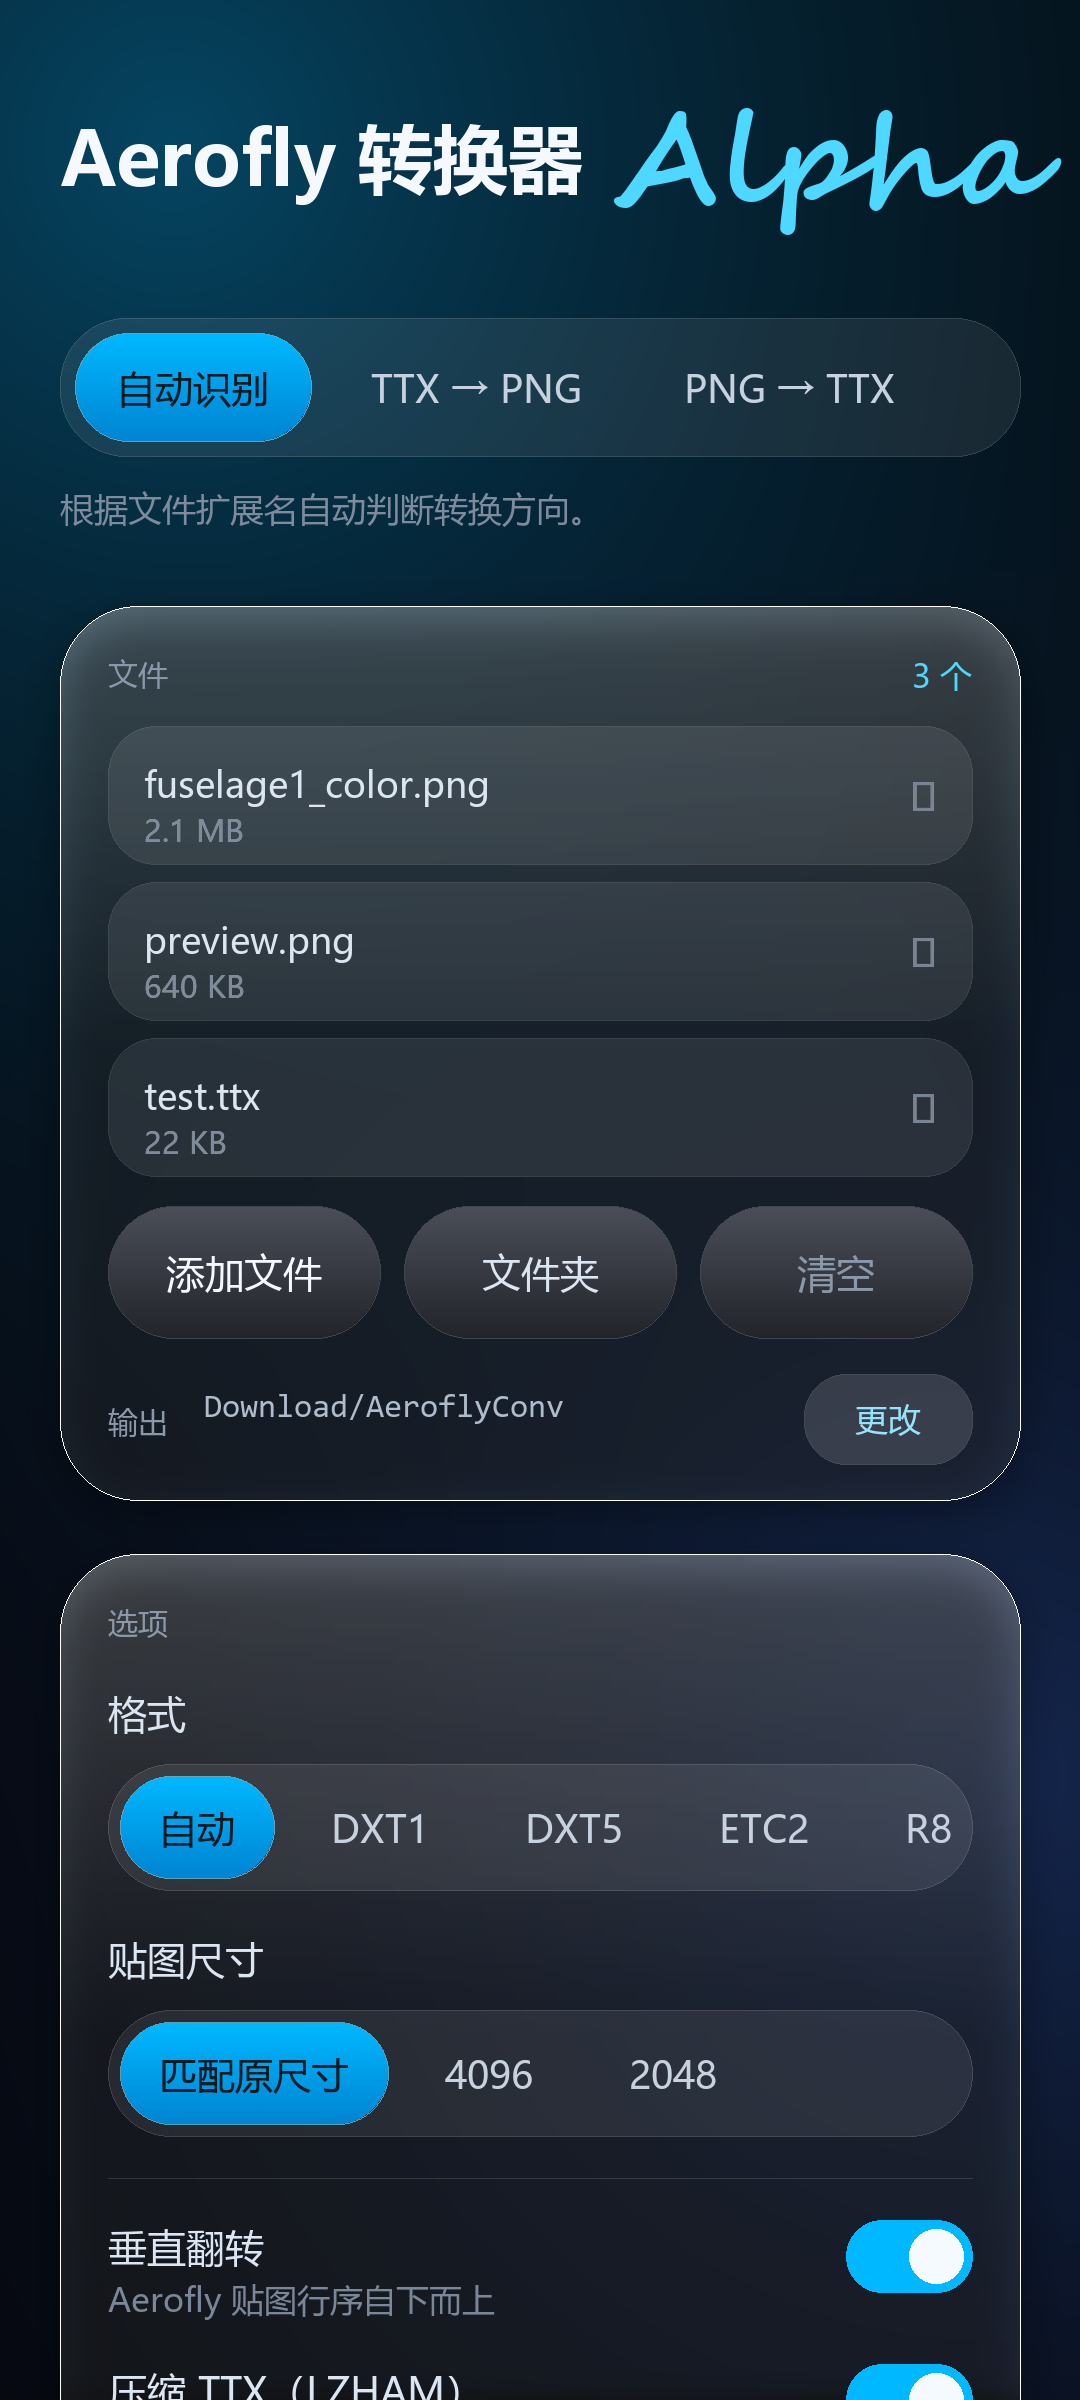
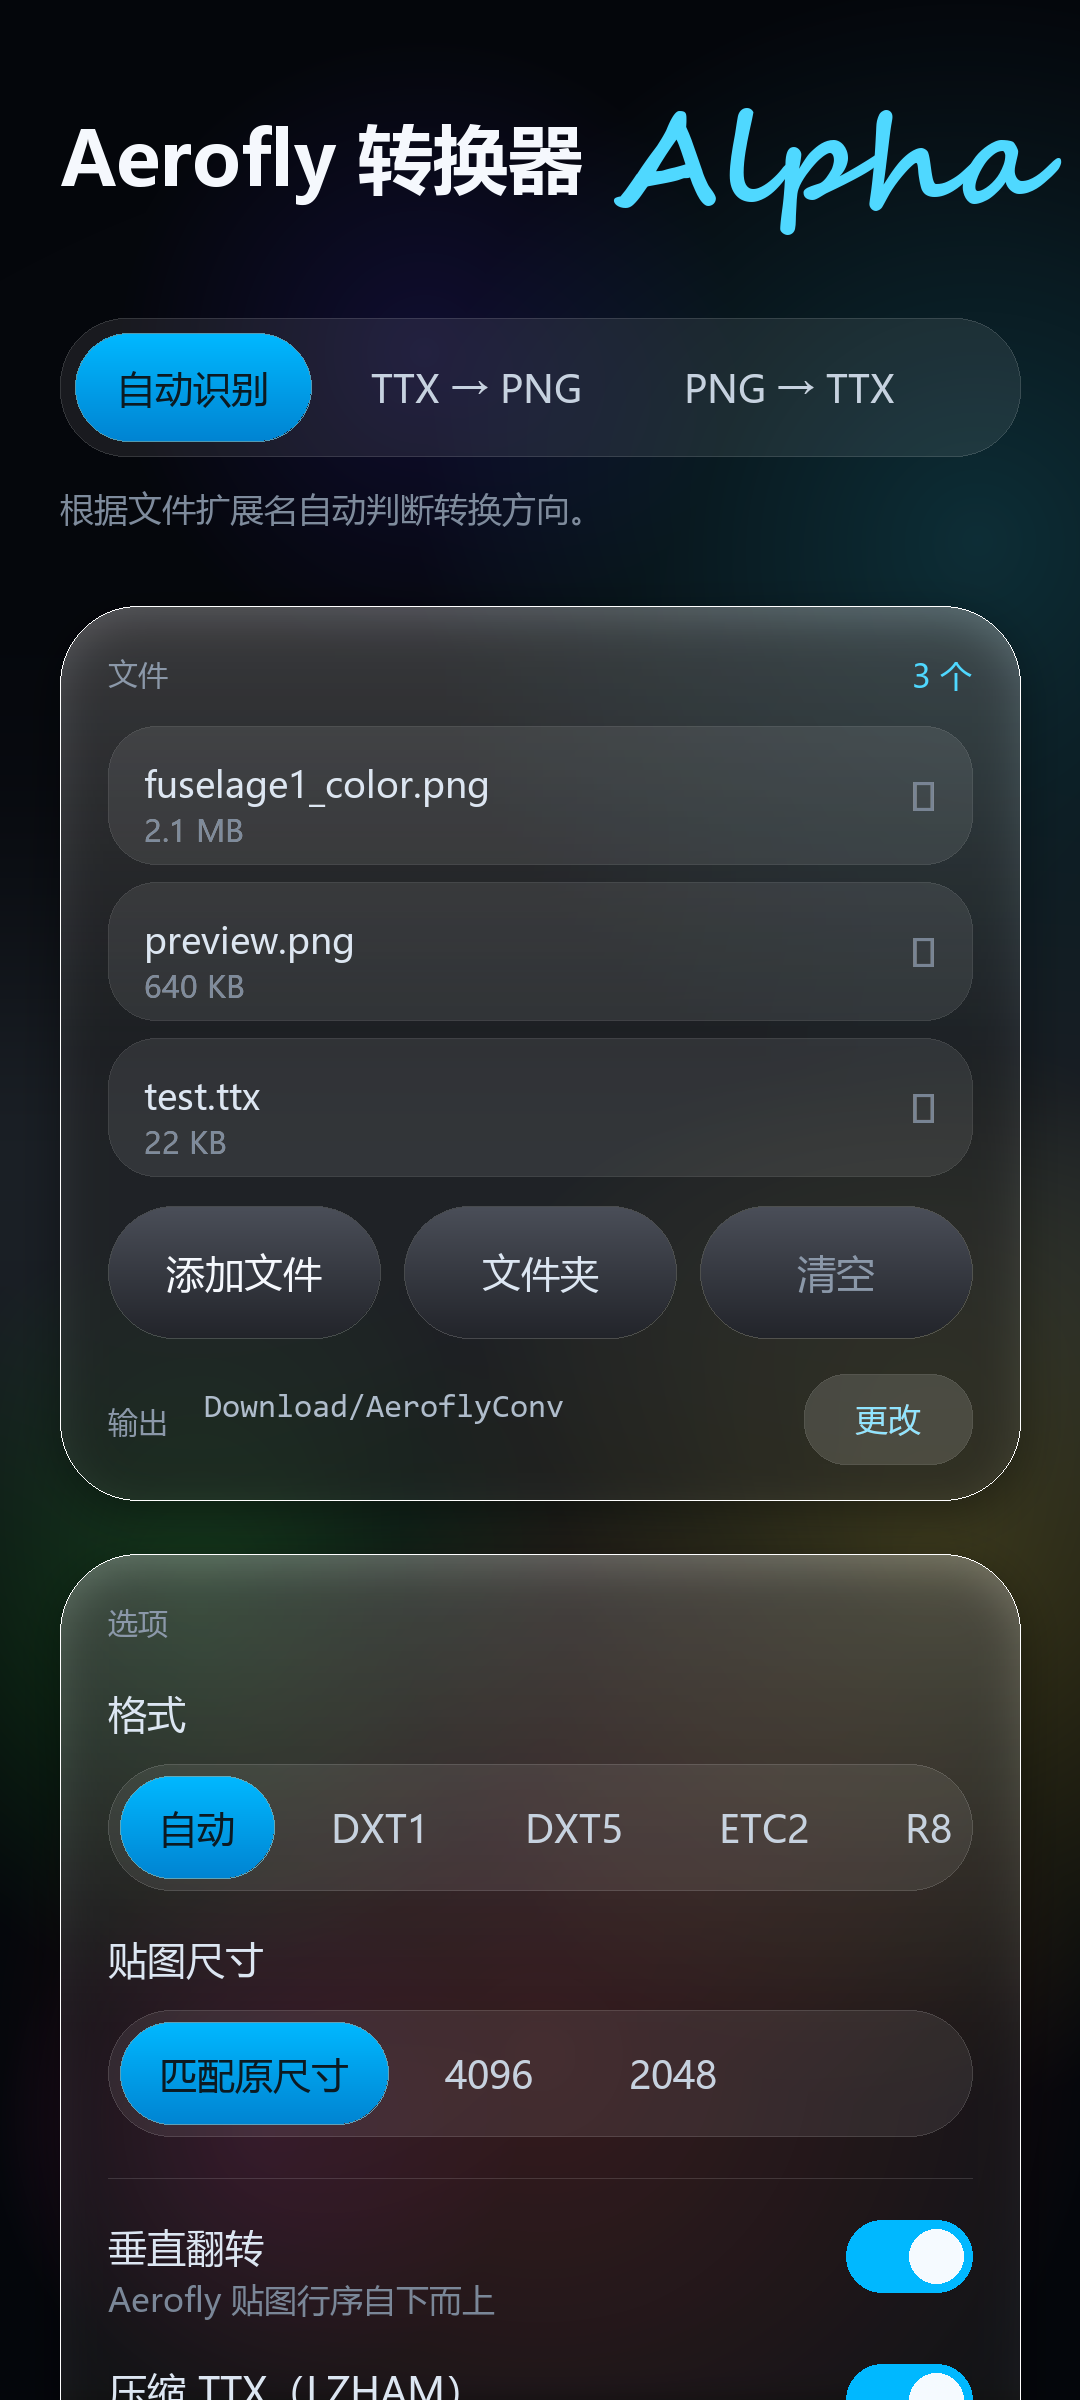
1.21.4: animated aurora background (drifting colour blobs, sweeping beam, glints, vignette)

diff --git a/src/AeroflyConv.Android/AuroraView.cs b/src/AeroflyConv.Android/AuroraView.cs
@@ -1,0 +1,230 @@
+using Android.Content;
+using Android.Graphics;
+using Android.Provider;
+using Android.Views;
+
+namespace AeroflyConv.Android;
+
+/// <summary>
+/// Animated background: soft colour blobs drifting on slow Lissajous paths (added together so
+/// they read as light), a wide light beam sweeping across the screen, a couple of drifting
+/// glints and a vignette that keeps the foreground readable.
+/// Everything is drawn with Canvas primitives — no bitmaps to ship, no third-party libraries.
+/// </summary>
+public sealed class AuroraView : View
+{
+    private sealed class Blob
+    {
+        public float SpeedX;
+        public float SpeedY;
+        public float PhaseX;
+        public float PhaseY;
+        public float Radius;      // fraction of the shorter edge
+        public float HueOffset;
+        public float Alpha;
+    }
+
+    private static readonly Color BaseColor = Color.Argb(255, 5, 7, 12);
+
+    // Hue travel: one full turn of the wheel every 48 s, so the palette keeps moving
+    // through cyan -> violet -> magenta -> amber -> emerald instead of sitting still.
+    private const float HueCycleSeconds = 48f;
+
+    private readonly Blob[] _blobs =
+    [
+        new() { SpeedX = 0.13f, SpeedY = 0.09f, PhaseX = 0.0f,  PhaseY = 1.1f,  Radius = 0.58f, HueOffset = 0f,   Alpha = 0.32f },
+        new() { SpeedX = 0.09f, SpeedY = 0.15f, PhaseX = 2.1f,  PhaseY = 0.4f,  Radius = 0.50f, HueOffset = 52f,  Alpha = 0.27f },
+        new() { SpeedX = 0.17f, SpeedY = 0.11f, PhaseX = 4.0f,  PhaseY = 2.7f,  Radius = 0.44f, HueOffset = 118f, Alpha = 0.25f },
+        new() { SpeedX = 0.07f, SpeedY = 0.19f, PhaseX = 1.3f,  PhaseY = 3.9f,  Radius = 0.52f, HueOffset = 186f, Alpha = 0.23f },
+        new() { SpeedX = 0.21f, SpeedY = 0.13f, PhaseX = 3.4f,  PhaseY = 5.2f,  Radius = 0.34f, HueOffset = 248f, Alpha = 0.20f },
+        new() { SpeedX = 0.11f, SpeedY = 0.23f, PhaseX = 5.6f,  PhaseY = 1.8f,  Radius = 0.30f, HueOffset = 310f, Alpha = 0.18f },
+    ];
+
+    private readonly Paint _blobPaint = new(PaintFlags.FilterBitmap) { AntiAlias = true };
+    private readonly Paint _beamPaint = new(PaintFlags.FilterBitmap) { AntiAlias = true };
+    private readonly Paint _vignettePaint = new(PaintFlags.FilterBitmap) { AntiAlias = true };
+    private readonly Paint _glintPaint = new(PaintFlags.FilterBitmap) { AntiAlias = true };
+    private Shader?[] _shaders = [];
+    private int[] _shaderColours = [];
+    private readonly float[] _hsv = new float[3];
+
+    private Shader? _beamShader;
+    private Shader? _vignetteShader;
+    private readonly RectF _rect = new();
+    private long _startNanos;
+    private float _elapsed;
+    private bool _visible = true;
+
+    public AuroraView(Context context) : base(context) => Init();
+
+    public AuroraView(Context context, global::Android.Util.IAttributeSet? attrs) : base(context, attrs) => Init();
+
+    public AuroraView(IntPtr handle, global::Android.Runtime.JniHandleOwnership ownership)
+        : base(handle, ownership) => Init();
+
+    private void Init()
+    {
+        _shaders = new Shader?[_blobs.Length];
+        _shaderColours = new int[_blobs.Length];
+        Array.Fill(_shaderColours, -1);
+        SetLayerType(LayerType.Hardware, null);
+        _blobPaint.SetXfermode(new PorterDuffXfermode(PorterDuff.Mode.Add));
+        _glintPaint.SetXfermode(new PorterDuffXfermode(PorterDuff.Mode.Add));
+        _startNanos = Java.Lang.JavaSystem.NanoTime();
+        _elapsed = 0f;
+    }
+
+    /// <summary>Reduced motion (accessibility / battery saver): freeze the animation.</summary>
+    public bool ReducedMotion
+    {
+        get
+        {
+            try
+            {
+                float scale = global::Android.Provider.Settings.Global.GetFloat(
+                    Context!.ContentResolver, global::Android.Provider.Settings.Global.AnimatorDurationScale, 1f);
+                return scale <= 0f;
+            }
+            catch
+            {
+                return true;
+            }
+        }
+    }
+
+    public void Pause() => _visible = false;
+
+    public void Resume()
+    {
+        if (_visible)
+        {
+            return;
+        }
+
+        _visible = true;
+        _startNanos = Java.Lang.JavaSystem.NanoTime() - (long)(_elapsed * 1e9);
+        Invalidate();
+    }
+
+    protected override void OnWindowVisibilityChanged(ViewStates visibility)
+    {
+        base.OnWindowVisibilityChanged(visibility);
+        _visible = visibility == ViewStates.Visible;
+        if (_visible)
+        {
+            Invalidate();
+        }
+    }
+
+    protected override void OnDraw(Canvas canvas)
+    {
+        int w = Width;
+        int h = Height;
+        if (w <= 0 || h <= 0)
+        {
+            return;
+        }
+
+        canvas.DrawColor(BaseColor);
+
+        float shorter = Math.Min(w, h);
+        float cx = w * 0.5f;
+        float cy = h * 0.5f;
+
+        // additive blobs
+        canvas.Save();
+        for (int i = 0; i < _blobs.Length; i++)
+        {
+            Blob b = _blobs[i];
+            float x = cx + w * 0.42f * MathF.Sin(_elapsed * b.SpeedX * MathF.Tau + b.PhaseX);
+            float y = cy + h * 0.40f * MathF.Sin(_elapsed * b.SpeedY * MathF.Tau + b.PhaseY);
+            float radius = shorter * b.Radius * (0.88f + 0.12f * MathF.Sin(_elapsed * 0.18f * MathF.Tau + b.PhaseX));
+            int colour = BlobColour(i, b);
+
+            if (_shaders[i] is null || _shaderColours[i] != colour)
+            {
+                float r = Math.Max(1f, shorter * b.Radius);
+                _shaders[i] = new RadialGradient(0, 0, r, colour, colour & 0x00FFFFFF, Shader.TileMode.Clamp!);
+                _shaderColours[i] = colour;
+                _blobPaint.SetShader(_shaders[i]);
+            }
+            else
+            {
+                _blobPaint.SetShader(_shaders[i]);
+            }
+
+            canvas.Save();
+            canvas.Translate(x, y);
+            canvas.Scale(radius / Math.Max(1f, shorter * b.Radius), radius / Math.Max(1f, shorter * b.Radius));
+            canvas.DrawCircle(0, 0, Math.Max(1f, shorter * b.Radius), _blobPaint);
+            canvas.Restore();
+        }
+        canvas.Restore();
+
+        // sweeping light beam
+        float angle = _elapsed * 6.0f; // degrees per second -> a lazy 60 s turn
+        float beamWidth = shorter * 0.55f;
+        if (_beamShader is null)
+        {
+            _beamShader = new LinearGradient(
+                -beamWidth, 0, beamWidth, 0,
+                [Color.Argb(0, 255, 255, 255), Color.Argb(26, 214, 245, 255), Color.Argb(0, 255, 255, 255)],
+                [0f, 0.5f, 1f],
+                Shader.TileMode.Clamp!);
+            _beamPaint.SetShader(_beamShader);
+        }
+
+        canvas.Save();
+        canvas.Translate(cx, cy);
+        canvas.Rotate(angle);
+        float span = MathF.Sqrt(w * w + h * h);
+        canvas.DrawRect(-span * 0.5f, -span * 0.5f, span * 0.5f, span * 0.5f, _beamPaint);
+        canvas.Restore();
+
+        // two small drifting glints
+        for (int i = 0; i < 2; i++)
+        {
+            float x = w * (0.5f + 0.38f * MathF.Sin(_elapsed * (0.07f + i * 0.02f) * MathF.Tau + i * 2.4f));
+            float y = h * (0.5f + 0.34f * MathF.Cos(_elapsed * (0.05f + i * 0.03f) * MathF.Tau + i * 1.7f));
+            _glintPaint.SetShader(new RadialGradient(x, y, shorter * 0.06f,
+                Color.Argb(70, 255, 255, 255), Color.Argb(0, 255, 255, 255), Shader.TileMode.Clamp!));
+            canvas.DrawCircle(x, y, shorter * 0.06f, _glintPaint);
+        }
+
+        // vignette keeps the cards and text readable over the bright spots
+        if (_vignetteShader is null)
+        {
+            _vignetteShader = new RadialGradient(cx, cy * 1.02f, Math.Max(w, h) * 0.78f,
+                [Color.Argb(0, 3, 5, 9), Color.Argb(40, 3, 5, 9), Color.Argb(150, 3, 5, 9)],
+                [0f, 0.58f, 1f],
+                Shader.TileMode.Clamp!);
+            _vignettePaint.SetShader(_vignetteShader);
+        }
+
+        canvas.DrawRect(0, 0, w, h, _vignettePaint);
+
+        if (!_visible)
+        {
+            return;
+        }
+
+        if (ReducedMotion)
+        {
+            // one static frame is enough when the system asks for no animation
+            _visible = false;
+            return;
+        }
+
+        _elapsed = (Java.Lang.JavaSystem.NanoTime() - _startNanos) / 1e9f;
+        PostInvalidateOnAnimation();
+    }
+
+    private int BlobColour(int index, Blob blob)
+    {
+        float hue = (_elapsed * 360f / HueCycleSeconds + blob.HueOffset) % 360f;
+        _hsv[0] = hue;
+        _hsv[1] = 0.80f;
+        _hsv[2] = 0.72f;
+        return Color.HSVToColor((int)Math.Clamp(blob.Alpha * 255f, 0, 255), _hsv);
+    }
+}

diff --git a/tools/mockup_ui.py b/tools/mockup_ui.py
@@ -11,6 +11,8 @@ from __future__ import annotations
 import os
 import sys
 
+import colorsys
+
 import numpy as np
 from PIL import Image, ImageDraw, ImageFilter, ImageFont
 
@@ -59,21 +61,48 @@ def vertical_gradient(size, top, bottom):
     return grad.resize((max(1, w), max(1, h)))
 
 
-def wallpaper():
+# Mirrors AuroraView.cs: same blob speeds/phases so the preview shows the real motion.
+BLOBS = [
+    # speedX, speedY, phaseX, phaseY, radius, hue offset, alpha
+    (0.13, 0.09, 0.0, 1.1, 0.58, 0, 0.32),
+    (0.09, 0.15, 2.1, 0.4, 0.50, 52, 0.27),
+    (0.17, 0.11, 4.0, 2.7, 0.44, 118, 0.25),
+    (0.07, 0.19, 1.3, 3.9, 0.52, 186, 0.23),
+    (0.21, 0.13, 3.4, 5.2, 0.34, 248, 0.20),
+    (0.11, 0.23, 5.6, 1.8, 0.30, 310, 0.18),
+]
+
+
+def aurora(t: float) -> Image.Image:
+    """Additive colour blobs + vignette, matching AuroraView at time t (seconds)."""
     yy, xx = np.mgrid[0:H, 0:W].astype(np.float32)
     img = np.zeros((H, W, 3), dtype=np.float32)
     img[:] = (5, 7, 12)
+    shorter = float(min(W, H))
+    cx, cy = W * 0.5, H * 0.5
 
-    def glow(cx, cy, radius, colour, strength):
-        r = np.sqrt((xx - cx * W) ** 2 + (yy - cy * H) ** 2)
-        falloff = np.clip(1.0 - r / radius, 0.0, 1.0) ** 2.2
-        return np.array(colour, dtype=np.float32) * (falloff * strength)[..., None]
+    for speed_x, speed_y, phase_x, phase_y, radius_frac, hue_offset, alpha in BLOBS:
+        bx = cx + W * 0.42 * np.sin(t * speed_x * 2 * np.pi + phase_x)
+        by = cy + H * 0.40 * np.sin(t * speed_y * 2 * np.pi + phase_y)
+        rad = shorter * radius_frac * (0.88 + 0.12 * np.sin(t * 0.18 * 2 * np.pi + phase_x))
+        hue = ((t * 360.0 / 48.0 + hue_offset) % 360.0) / 360.0
+        rgb = colorsys.hsv_to_rgb(hue, 0.80, 0.72)
+        r = np.sqrt((xx - bx) ** 2 + (yy - by) ** 2)
+        falloff = np.clip(1.0 - r / max(1.0, rad), 0.0, 1.0)
+        img += np.array(rgb, dtype=np.float32) * 255.0 * (falloff * alpha)[..., None]
 
-    img += glow(0.16, 0.06, 620 * S, (0, 184, 255), 0.34)
-    img += glow(0.92, 0.74, 560 * S, (62, 123, 255), 0.26)
-    img = np.clip(img, 0, 255).astype(np.uint8)
-    return Image.fromarray(img, "RGB")
+    # sweeping beam
+    angle = np.deg2rad(t * 6.0)
+    proj = (xx - cx) * np.sin(angle) + (yy - cy) * np.cos(angle)
+    band = np.exp(-((proj / (shorter * 0.28)) ** 2)) * 26.0
+    img += band[..., None] * np.array([214, 245, 255], dtype=np.float32) / 255.0
 
+    # vignette
+    rv = np.sqrt((xx - cx) ** 2 + (yy - cy * 1.02) ** 2) / (max(W, H) * 0.78)
+    dark = np.clip((rv - 0.58) / 0.42, 0.0, 1.0) * 0.59
+    img = img * (1.0 - dark)[..., None] + np.array([3, 5, 9], dtype=np.float32) * dark[..., None]
+
+    return Image.fromarray(np.clip(img, 0, 255).astype(np.uint8), "RGB")
 
 def frost(base: Image.Image, box, radius):
     x0, y0, x1, y1 = box
@@ -138,8 +167,8 @@ def draw_switch(d, x, cy, on=True):
     d.ellipse([cx - r, cy - r, cx + r, cy + r], fill=(245, 250, 255))
 
 
-def build(demo_files: bool) -> Image.Image:
-    base = wallpaper().convert("RGBA")
+def build(demo_files: bool, t: float = 0.0) -> Image.Image:
+    base = aurora(t).convert("RGBA")
     content = Image.new("RGBA", (W, H), (0, 0, 0, 0))
     d = ImageDraw.Draw(content, "RGBA")
     cards: list[tuple] = []
@@ -305,6 +334,7 @@ def build(demo_files: bool) -> Image.Image:
 if __name__ == "__main__":
     out_dir = sys.argv[1] if len(sys.argv) > 1 else "."
     os.makedirs(out_dir, exist_ok=True)
-    build(False).save(os.path.join(out_dir, "preview_empty.png"))
-    build(True).save(os.path.join(out_dir, "preview_files.png"))
+    build(True, 0.0).save(os.path.join(out_dir, "preview_files.png"))
+    build(True, 11.0).save(os.path.join(out_dir, "preview-files-t11.png"))
+    build(False, 22.0).save(os.path.join(out_dir, "preview-empty-t22.png"))
     print("ok")

diff --git a/src/AeroflyConv.Android/MainActivity.cs b/src/AeroflyConv.Android/MainActivity.cs
@@ -110,6 +110,7 @@ public class MainActivity : Activity
     private Switch _swTtcMips = null!;
     private Button _btnConvert = null!;
     private ScrollView _scrollLog = null!;
+    private AuroraView _aurora = null!;
 
     private PillGroup _modes = null!;
     private PillGroup _formats = null!;
@@ -197,10 +198,24 @@ public class MainActivity : Activity
         AcceptIncoming(intent);
     }
 
+    protected override void OnResume()
+    {
+        base.OnResume();
+        _aurora?.Resume();
+    }
+
+    protected override void OnPause()
+    {
+        // stop the 60 fps background while the app is not on screen (battery, no wake locks)
+        _aurora?.Pause();
+        base.OnPause();
+    }
+
     // ------------------------------------------------------------------ views
 
     private void BindViews()
     {
+        _aurora = FindViewById<AuroraView>(Resource.Id.aurora)!;
         _llModes = FindViewById<LinearLayout>(Resource.Id.llModes)!;
         _llFormat = FindViewById<LinearLayout>(Resource.Id.llFormat)!;
         _llSize = FindViewById<LinearLayout>(Resource.Id.llSize)!;

diff --git a/src/AeroflyConv.Core/ProductInfo.cs b/src/AeroflyConv.Core/ProductInfo.cs
@@ -13,7 +13,7 @@ public static class ProductInfo
     public const string Edition = "Alpha";
 
     /// <summary>Numeric version (also stamped into the assemblies).</summary>
-    public const string Version = "1.21.3";
+    public const string Version = "1.21.4";
 
     /// <summary>"Aerofly 转换器 Alpha"</summary>
     public const string FullName = Name + " " + Edition;

diff --git a/README.md b/README.md
@@ -338,14 +338,14 @@ Win32），依赖的 ImageSharp / NLayer / NVorbis 也都是跨平台的。
 ### 15.1 Android 应用
 
 `src/AeroflyConv.Android` 是一个 .NET for Android 原生应用（不是 MAUI，界面用 XML 布局），
-APK 在 `dist/v1.21.3/android/AeroflyConverter-Alpha-1.21.3.apk`（minSdk 24 / target 36）；
-精简版是 `AeroflyConverter-Public-1.21.3.apk`（只保留 PNG→TTX、WAV→TSB，可与 Alpha 共存）。
+APK 在 `dist/v1.21.4/android/AeroflyConverter-Alpha-1.21.4.apk`（minSdk 24 / target 36）；
+精简版是 `AeroflyConverter-Public-1.21.4.apk`（只保留 PNG→TTX、WAV→TSB，可与 Alpha 共存）。
 
-安装：`adb install -r AeroflyConverter-Alpha-1.21.3.apk`，或拷到手机后用文件管理器点击安装。
+安装：`adb install -r AeroflyConverter-Alpha-1.21.4.apk`，或拷到手机后用文件管理器点击安装。
 
 **界面（1.21.3 起为 iOS"流体玻璃"风格，全中文）**：
 
-* 深色壁纸 + 柔和青色/蓝色光晕，内容放在 3 张半透明玻璃卡片里（**文件 / 选项 / 日志**）；
+* 动态极光背景（彩色光团流动 + 扫过的光束 + 漂移光点，色相 48 秒转一圈），内容放在 3 张半透明玻璃卡片里（**文件 / 选项 / 日志**）；
 * 顶部**模式**是无卡片的分段控件（玻璃胶囊里滑动选择），当前模式的说明文字直接跟在下面；
 * **文件**卡片：`添加文件`（可多选）、`文件夹`（递归扫描）、`清空`，逐个文件可点 ✕ 移除，
   底部一行是**输出位置**（`Download/AeroflyConv` 或自选文件夹，点「更改」）；
@@ -425,6 +425,15 @@ AeroflyConv livery.png -f astc6x6 --astc-quality high      # 高质量
 ---
 
 ## 16. 版本记录
+
+### 1.21.4
+
+* **手机端动画背景**：新增 `AuroraView.cs`（纯 Canvas，无第三方库）——6 个彩色光团沿利萨如轨迹
+  缓慢游动并用叠加混合，半径会呼吸，色相每 48 秒转一圈；一道光束约 60 秒扫过一圈；两个漂移高光点；
+  四周渐晕保证文字对比度。
+* 省电处理：仅在可见时绘制（`OnPause` 停 / `OnResume` 续），系统开启"减少动画"时只画静态一帧。
+* 玻璃卡片加 `elevation` 投影（8–12dp），层次更清楚。
+* 版本号统一到 **1.21.4**（Alpha `versionCode 9`、Public `versionCode 6`）。
 
 ### 1.21.3
 
